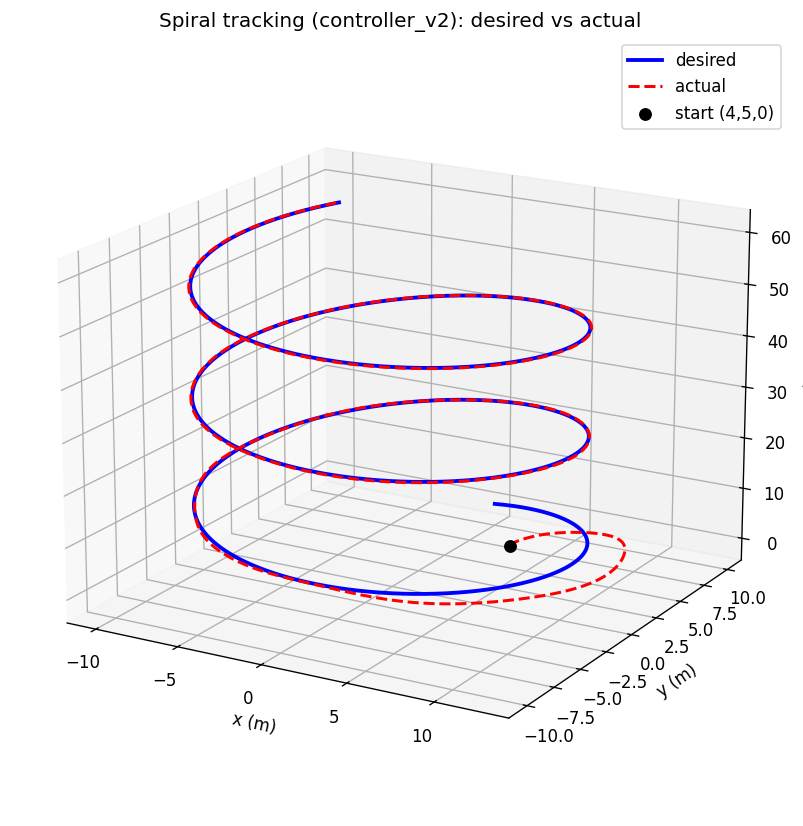
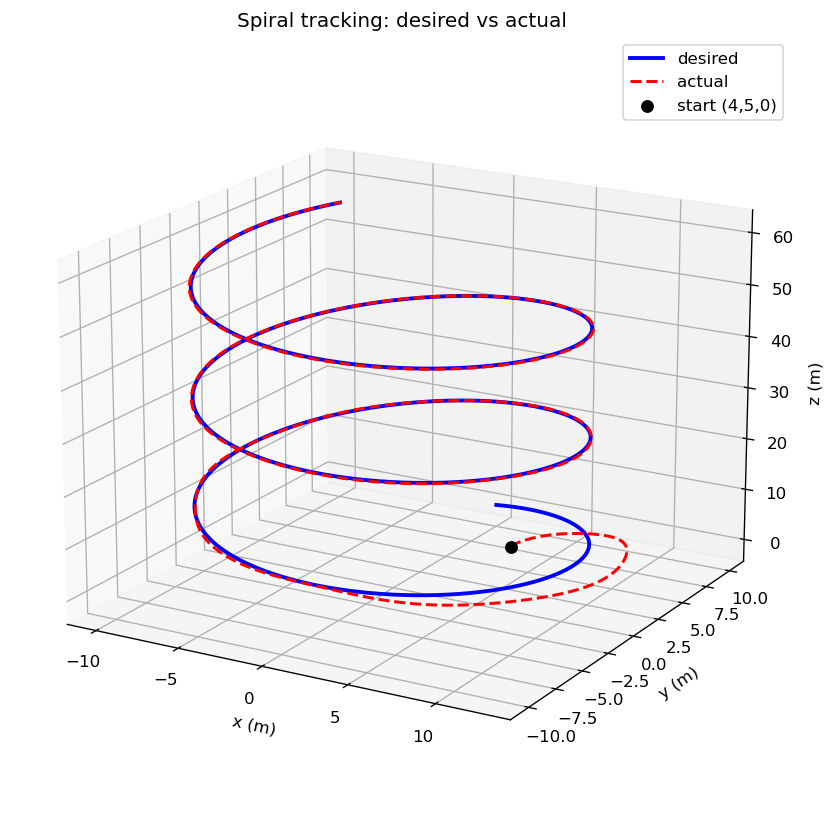
Observer figures: per-state RMSE bar chart, proper y-axis labels, remove v2 wording

Changed region(s): [[0.0934, 0.1816, 0.9963, 0.908], [0.1868, 0.0, 0.9651, 0.1513], [0.1868, 0.8172, 0.2179, 0.8475]]

diff --git a/phase1a/evaluate_12states_v2.py b/phase1a/evaluate_12states_v2.py
@@ -38,6 +38,29 @@ for i,n in enumerate(NAMES):
 print(f"  avg measured: {rmse[MEAS_IDX].mean():.4f}")
 print(f"  avg hidden:   {rmse[HID].mean():.4f}")
 
+# ---- per-state RMSE bar chart (measured vs hidden), units in x-tick labels ----
+import matplotlib.patches as mpatches
+UNITS = ['m','m','m','m/s','m/s','m/s','rad','rad','rad','rad/s','rad/s','rad/s']
+xticklabels = [f"{NAMES[i]}\n[{UNITS[i]}]" for i in range(12)]
+colors = ["#E08E0B" if i in MEAS_IDX else "#0B3C5D" for i in range(12)]
+figb, axb = plt.subplots(figsize=(12, 6))
+bars = axb.bar(range(12), rmse, color=colors, edgecolor="white", linewidth=0.6)
+for b, v in zip(bars, rmse):
+    axb.annotate(f"{v:.3f}", (b.get_x()+b.get_width()/2, v), xytext=(0,3),
+                 textcoords="offset points", ha="center", va="bottom", fontsize=8)
+axb.set_xticks(range(12)); axb.set_xticklabels(xticklabels, fontsize=9)
+axb.set_xlabel("State  (unit in brackets)", fontsize=11)
+axb.set_ylabel("RMSE  (in each state's own unit)", fontsize=11)
+axb.set_title("PINN observer per-state RMSE on unseen test flights", fontsize=13)
+axb.grid(axis="y", alpha=0.3); axb.set_axisbelow(True)
+axb.legend(handles=[mpatches.Patch(color="#E08E0B", label="measured states"),
+                    mpatches.Patch(color="#0B3C5D", label="hidden states")],
+           loc="upper right")
+axb.margins(y=0.15)
+outb = os.path.join(os.path.dirname(os.path.dirname(os.path.abspath(__file__))), "docs", "observer_rmse_bar.png")
+figb.tight_layout(); figb.savefig(outb, dpi=140, bbox_inches="tight"); plt.close(figb)
+print("saved ->", outb)
+
 # ---- 12-state plot for one unseen flight (index 40) ----
 d = np.load(DATASET); T = d["T"]; X = d["X"]; flight = 40
 t_col = torch.tensor(T, dtype=torch.float32).unsqueeze(1)
@@ -57,7 +80,7 @@ for i,ax in enumerate(axes.flat):
     ax.set_xlabel("time  t  (s)", fontsize=9)
     ax.set_ylabel(f"{NAMES[i]}  ({UNITS[i]})", fontsize=9)
     ax.grid(alpha=0.3); ax.legend(fontsize=7)
-fig.suptitle("Observer v2 (controller_v2 dataset) — 12 states, unseen flight 40: true vs estimated", fontsize=13)
+fig.suptitle("PINN observer — 12 states on an unseen test flight: true vs estimated", fontsize=13)
 out = os.path.join(os.path.dirname(os.path.dirname(os.path.abspath(__file__))), "docs", "eval_12states_v2.png")
 plt.tight_layout(rect=[0,0,1,0.98]); plt.savefig(out, dpi=120, bbox_inches="tight")
 print("saved ->", out)

diff --git a/scenarios/spiral/plot_states12_v2.py b/scenarios/spiral/plot_states12_v2.py
@@ -46,7 +46,7 @@ ax.plot(pos_d[:, 0], pos_d[:, 1], pos_d[:, 2], 'b-', lw=2.3, label='desired')
 ax.plot(Y[0], Y[1], Y[2], 'r--', lw=1.8, label='actual')
 ax.scatter([x0[0]], [x0[1]], [x0[2]], c='k', s=45, label='start (4,5,0)')
 ax.set_xlabel('x (m)'); ax.set_ylabel('y (m)'); ax.set_zlabel('z (m)')
-ax.set_title('Spiral tracking (controller_v2): desired vs actual')
+ax.set_title('Spiral tracking: desired vs actual')
 ax.legend(); ax.view_init(elev=18, azim=-60)
 out3d = os.path.join(PROJ, "docs", "spiral_3d_v2.png")
 plt.tight_layout(); plt.savefig(out3d, dpi=120, bbox_inches="tight"); plt.close(fig)
@@ -66,11 +66,13 @@ for i, ax in enumerate(axes.flat):
     ax.plot(t, Y[i], 'r-', lw=1.3, label='actual')
     if desired[i] is not None:
         ax.plot(t, desired[i], 'b--', lw=1.6, label='desired')
-    ax.set_title(f'{labels[i]} ({units[i]})', fontsize=10)
-    ax.grid(alpha=0.3); ax.set_xlabel('t (s)', fontsize=8)
+    ax.set_title(labels[i], fontsize=10)
+    ax.grid(alpha=0.3)
+    ax.set_xlabel('time  t  (s)', fontsize=8)
+    ax.set_ylabel(f'{labels[i]}  ({units[i]})', fontsize=9)
     ax.legend(fontsize=7, loc='upper right')
-fig.suptitle('All 12 states — spiral with controller_v2 (R=10, omega=0.6). '
-             'p,q,r have no reference (actual only).', fontsize=12)
+fig.suptitle('All 12 states on the spiral trajectory: actual vs desired '
+             '(p, q, r have no reference).', fontsize=12)
 out12 = os.path.join(PROJ, "docs", "spiral_12states_v2.png")
 plt.tight_layout(rect=[0, 0, 1, 0.98]); plt.savefig(out12, dpi=120, bbox_inches="tight")
 print("saved ->", out12)
